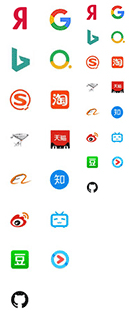
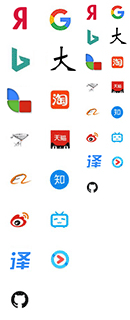
Site updated: 2020-10-22 12:57:38

diff --git a/js/header.js b/js/header.js
@@ -13,8 +13,8 @@ function search() {
             url: "https://www.google.com/search?q="
         }, {
             name: "bing",
-            img: "url('/images/search_icon.png') -80px 0px",
-            position: "0px 0px",
+            img: "url('/images/search_icon.png') -80px -25px",
+            position: "0px -40px",
             url: "https://www.bing.com/search?q="
         },  {
             name: "Яндекс",
@@ -23,13 +23,13 @@ function search() {
             url: "https://yandex.ru/search/?lr=2&text="
         },{
             name: "大БРКС",
-            img: "url('/images/search_icon.png')  -80px -25px",
-            position: "0px -40px",
+            img: "url('/images/search_icon.png')  -105px -25px",
+            position: "-40px -40px",
             url: "https://bkrs.info/slovo.php?ch="
         }, {
             name: "千亿词霸",
-            img: "url('/images/search_icon.png')  -80px -25px",
-            position: "0px -40px",
+            img: "url('/images/search_icon.png')  -80px -50px",
+            position: "0px -80px",
             url: "https://w.qianyix.com/index.php?q="
         }, {
             name: "译酷俄语",
